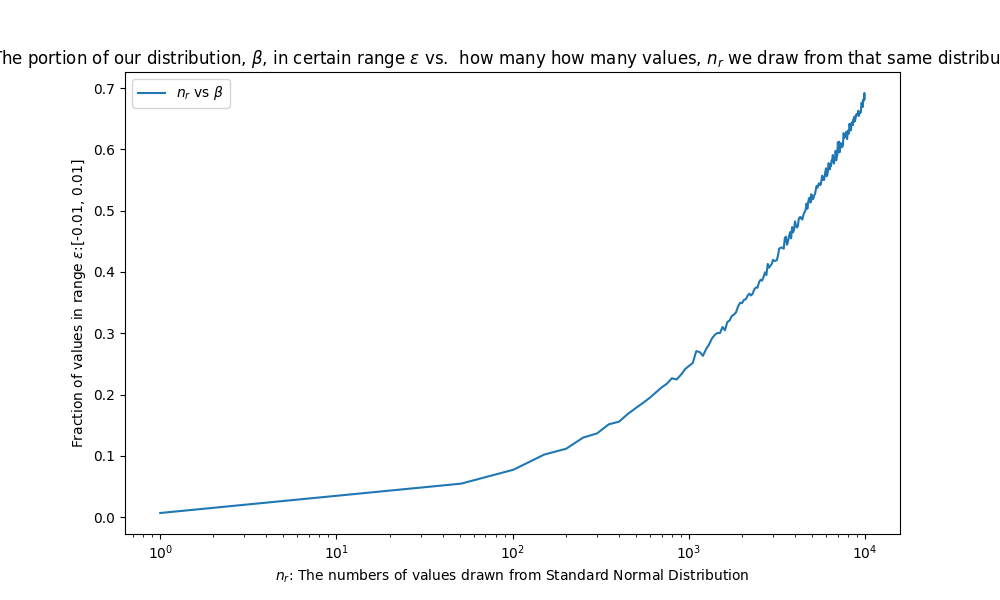
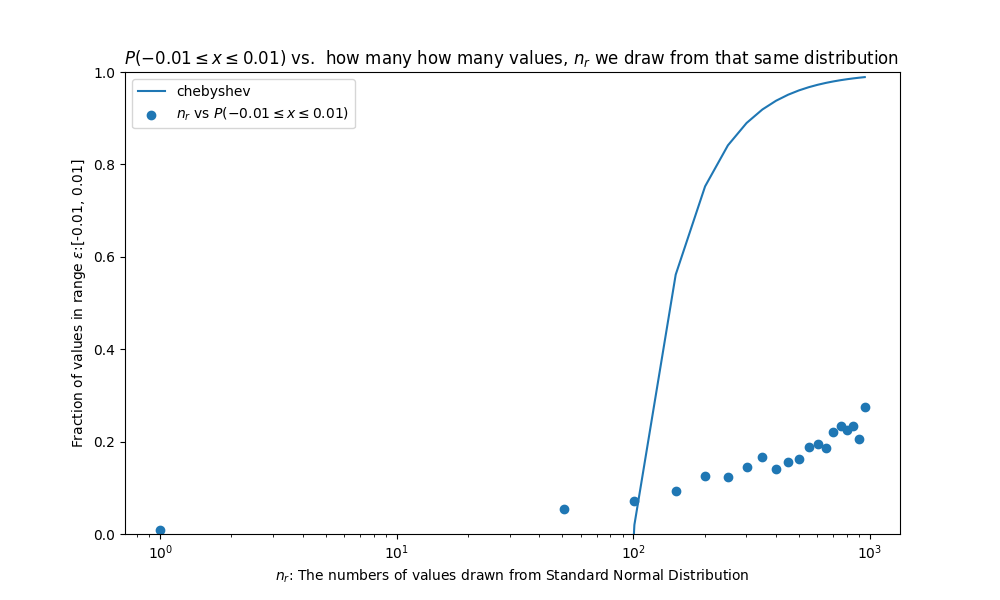
hw3 q2p2

diff --git a/HW3/HW3_2_2.py b/HW3/HW3_2_2.py
@@ -1,14 +1,13 @@
 import matplotlib.pyplot as plt
 import numpy  as np
 
-
-n_trials      = 100
-n_experiments = 10000
+n_trials      = 10
+n_experiments = 1000
 mu_min        = -0.01
 mu_max        = 0.01
 n_min         = 1
 n_max         = n_experiments
-n_step        = 500
+n_step        = 50
 
 def part_1(min: float, max: float, n_trials: int, n_experiments: int) -> float:
     '''
@@ -16,8 +15,9 @@ def part_1(min: float, max: float, n_trials: int, n_experiments: int) -> float:
     Xs were in the range [−0.01,0.01]?
     '''
     X_bars = generate_sample_means(n_experiments, n_trials)
-    in_range = (X_bars[(X_bars >= min) & (X_bars <= max)].size / X_bars.size) 
-    
+
+    in_range = X_bars[(X_bars >= min) & (X_bars <= max)].size / X_bars.size
+
     return in_range
 
 def part_2(n_experiments: int, n_min: int, n_max, n_step, mu_min: float, mu_max: float) -> None:
@@ -26,46 +26,29 @@ def part_2(n_experiments: int, n_min: int, n_max, n_step, mu_min: float, mu_max:
     in_ranges = np.array([])
 
     for n_r in n_range:
+        print(n_r)
         in_range  = part_1(mu_min, mu_max, n_r, n_experiments)
         in_ranges = np.append(in_ranges,in_range)
-
-
-    x_new = np.arange(0,10000,1)
-    b_log, a_log = np.polyfit(np.log(n_range), in_ranges, 1)    
-    log_fit = a_log + b_log * np.log(x_new)
-
+    print(((mu_max - mu_min)/2)**-2)
     
-    quad_z = np.polyfit(n_range, in_ranges, 2)
+    chebyshev = 1 - ( 1 / (((mu_max - mu_min)/2)**2 * n_range**2)) # see pdf
     
-    model = np.poly1d(quad_z)
 
-
-    b_exp, a_exp = np.polyfit(n_range, np.log(in_ranges),1)
-    exp_fit = np.exp(a_exp) * np.exp(b_exp * x_new)
-
-    # 1. Fit a 2nd-degree polynomial (quadratic: y = a*x^2 + b*x + c)
-    a2_log, b2_log, c2_log = np.polyfit(np.log(n_range), in_ranges, 2)
-
-    # 2. Calculate the fitted values using the quadratic equation
-    log2_fit = a2_log * (np.log(x_new)**2) + b2_log * np.log(x_new)  + c2_log
-
-    
     plt.figure(figsize=(10, 6))
-    plt.title(r"The portion of our distribution, $\beta$, in certain range $\epsilon$ vs.  how many how many values, $n_r$ we draw from that same distribution ")
-    plt.ylabel(r"Fraction of values in range $\epsilon$:" + f"[{mu_min}, {mu_max}]")
+    plt.title(fr"$P({mu_min} \leq x \leq {mu_max})$ vs.  how many how many values, $n_r$ we draw from that same distribution ")
+    plt.ylabel(fr"Fraction of values in range $\epsilon$:" + f"[{mu_min}, {mu_max}]")
     plt.xlabel(r"$n_r$: The numbers of values drawn from Standard Normal Distribution")
     plt.xscale("log")
 
-    # plt.plot(x_new, model(x_new), label = fr"qaud: {quad_z[2]:.2}$x^2$ + {quad_z[1]:.2}$x$ + {quad_z[0]:.2}" , linestyle = '--')
-    # plt.plot(x_new, exp_fit, label = fr"$\exp({a_exp:.2})\exp({b_exp:.2} n_r)$)", linestyle = '--')
-    # plt.plot(x_new, log_fit, label = fr"{a_log:.2} + {b_log:.2}$\log n_r$", linestyle = '--')
-    # plt.plot(x_new, log2_fit, label = fr"${a2_log:.2}(\log n_r)^2) + {b2_log:.2}\log n_r + {c2_log:.2}$", linestyle = '--')
-    plt.plot(n_range, in_ranges, label = r'$n_r$ vs $\beta$')
+    plt.ylim(0,1)
+
+    plt.plot(n_range, chebyshev, label = "chebyshev")
+    plt.scatter(n_range, in_ranges, label = fr'$n_r$ vs $P({mu_min} \leq x \leq {mu_max})$')
     plt.legend()
     plt.savefig("HW3_2_2.png")
     plt.show()
 
-    
+
 
 
 def get_dataset(n: int) -> np.array:
@@ -77,10 +60,8 @@ def get_dataset(n: int) -> np.array:
     
     r(x) = 1 / sqrt(2 * pi) * exp [ -x^2 / 2]
     '''
+    
     return np.random.standard_normal(n) 
-
-def get_mean(data: np.array)-> float:
-    return data.mean()
 
 def generate_sample_means(n_experiments: int, n_trials: int)-> np.array:
     X_bars = np.array([])
@@ -88,6 +69,7 @@ def generate_sample_means(n_experiments: int, n_trials: int)-> np.array:
     for n_ex in range(n_experiments):
 
         data = get_dataset(n_trials)
+        
         X_bars = np.append(X_bars, data.mean()) 
 
     return X_bars
@@ -95,10 +77,10 @@ def generate_sample_means(n_experiments: int, n_trials: int)-> np.array:
 
 
 def main():
-    
+
     in_range = part_1(mu_min, mu_max, n_trials, n_experiments)
 
-    print(f"For {n_experiments} experiments drawing {n_trials} values, the percentage in range [{mu_min}, {mu_max}] is {in_range * 100:.3}%") 
+    print(f"For {n_experiments} experiments drawing {n_trials} values, the percentage in range [{mu_min}, {mu_max}] is {in_range:.3}%") 
 
     part_2(n_experiments, n_min, n_max, n_step, mu_min, mu_max)
 

diff --git a/HW3/HW3_2_1.py b/HW3/HW3_2_1.py
@@ -34,11 +34,9 @@ def generate_sample_means(n_experiments: int, n_trials: int)-> np.array:
 def main():
     
     X_bars = generate_sample_means(n_experiments, n_trials)
-
-    np.savetxt("X_bars.txt", X_bars)
     plt.hist(X_bars, bins = int(n_experiments / n_trials), density = True, edgecolor = "black", align = "left")
     plt.title(r"Average of $\bar{X}$")
-    plt.savefig("HW3_2_1.png")
+    plt.savefig(f"HW3_2_1.png")
     plt.show()
 
 
